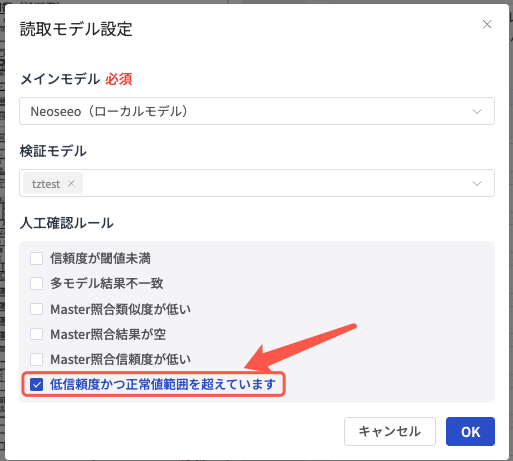
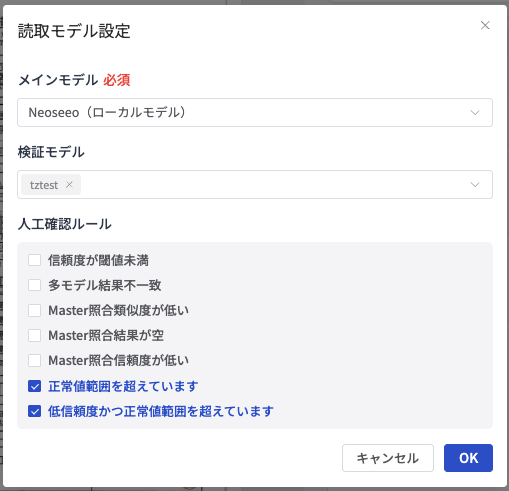
Update read-model HITL rules PRD screenshot for default rules 6+7.
Replace the 読取モデル設定 figure with the current seven-rule dialog showing 正常値範囲 and low-confidence-and-range checked by default.

Changed region(s): [[0.0, 0.0, 1.0, 1.0], [0.6483, 0.9111, 0.6778, 0.9414]]

diff --git a/prd-public/index.html b/prd-public/index.html
@@ -379,7 +379,7 @@
       </div>
     </aside>
     <main class="main">
-      <div class="main__meta">由 PRD.zh-CN.md 生成 · 2026/9/2 13:51:12</div>
+      <div class="main__meta">由 PRD.zh-CN.md 生成 · 2026/9/2 13:52:50</div>
       <article class="paper">
 <h1>NeosAI 日本保险 IDP — 产品需求文档</h1>
 <h2 id="chapter-1" class="chapter-heading">第 1 章｜术语与词汇表</h2>
